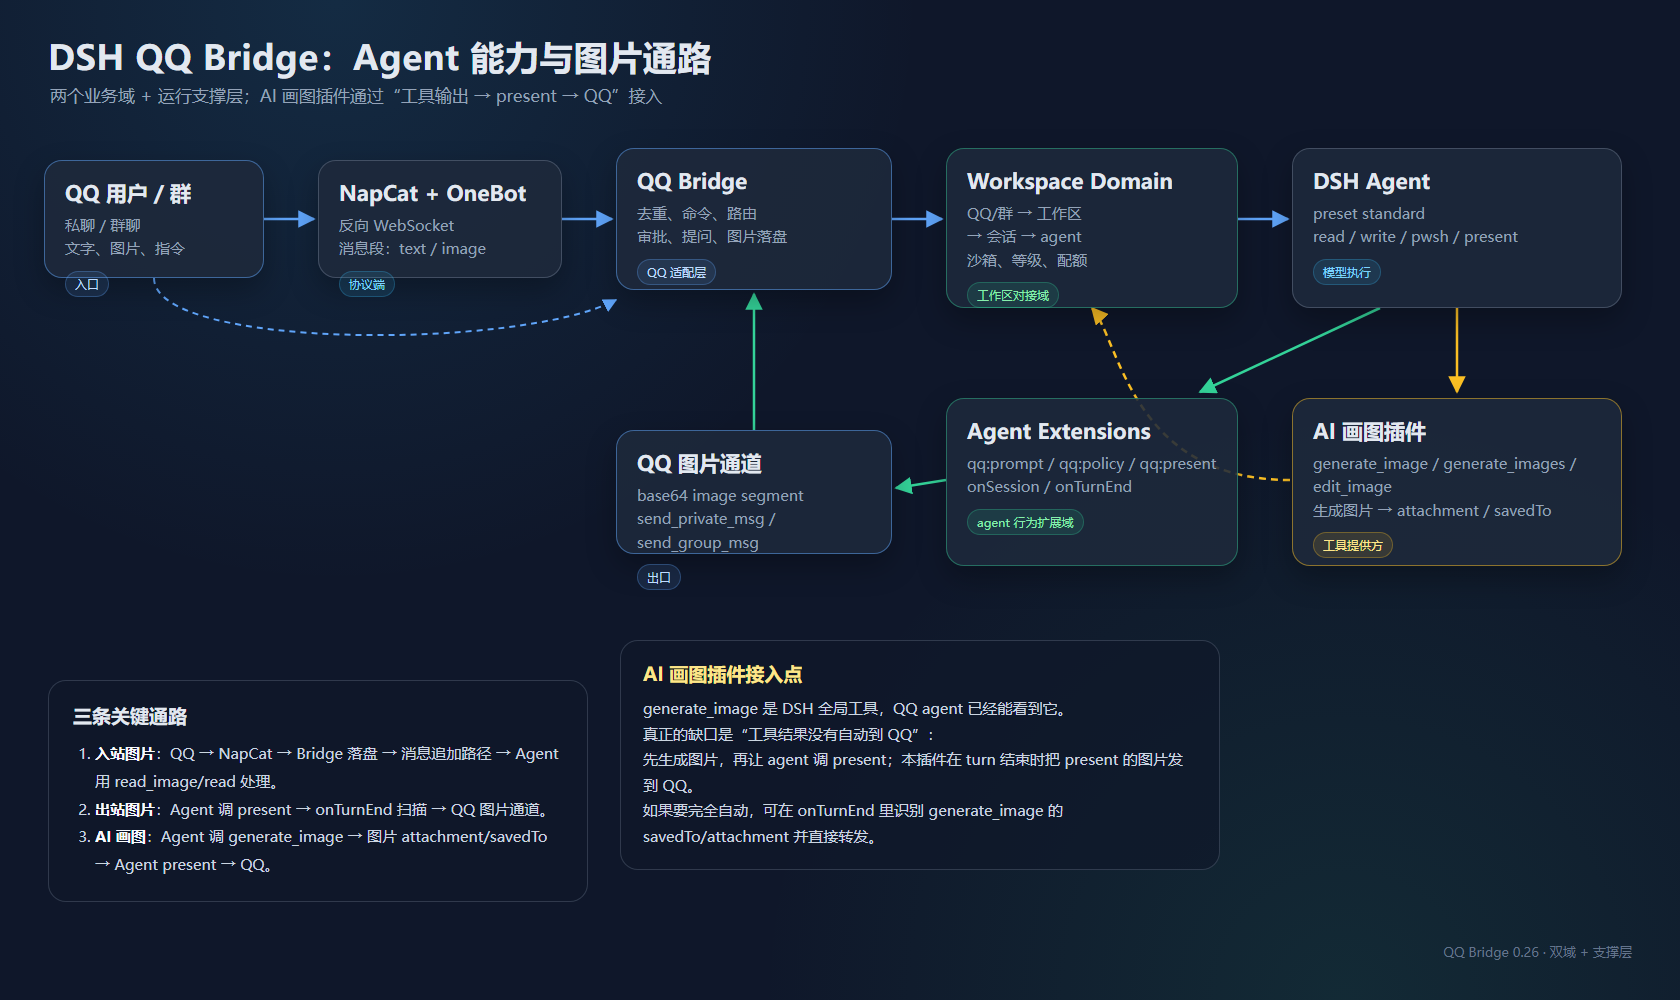
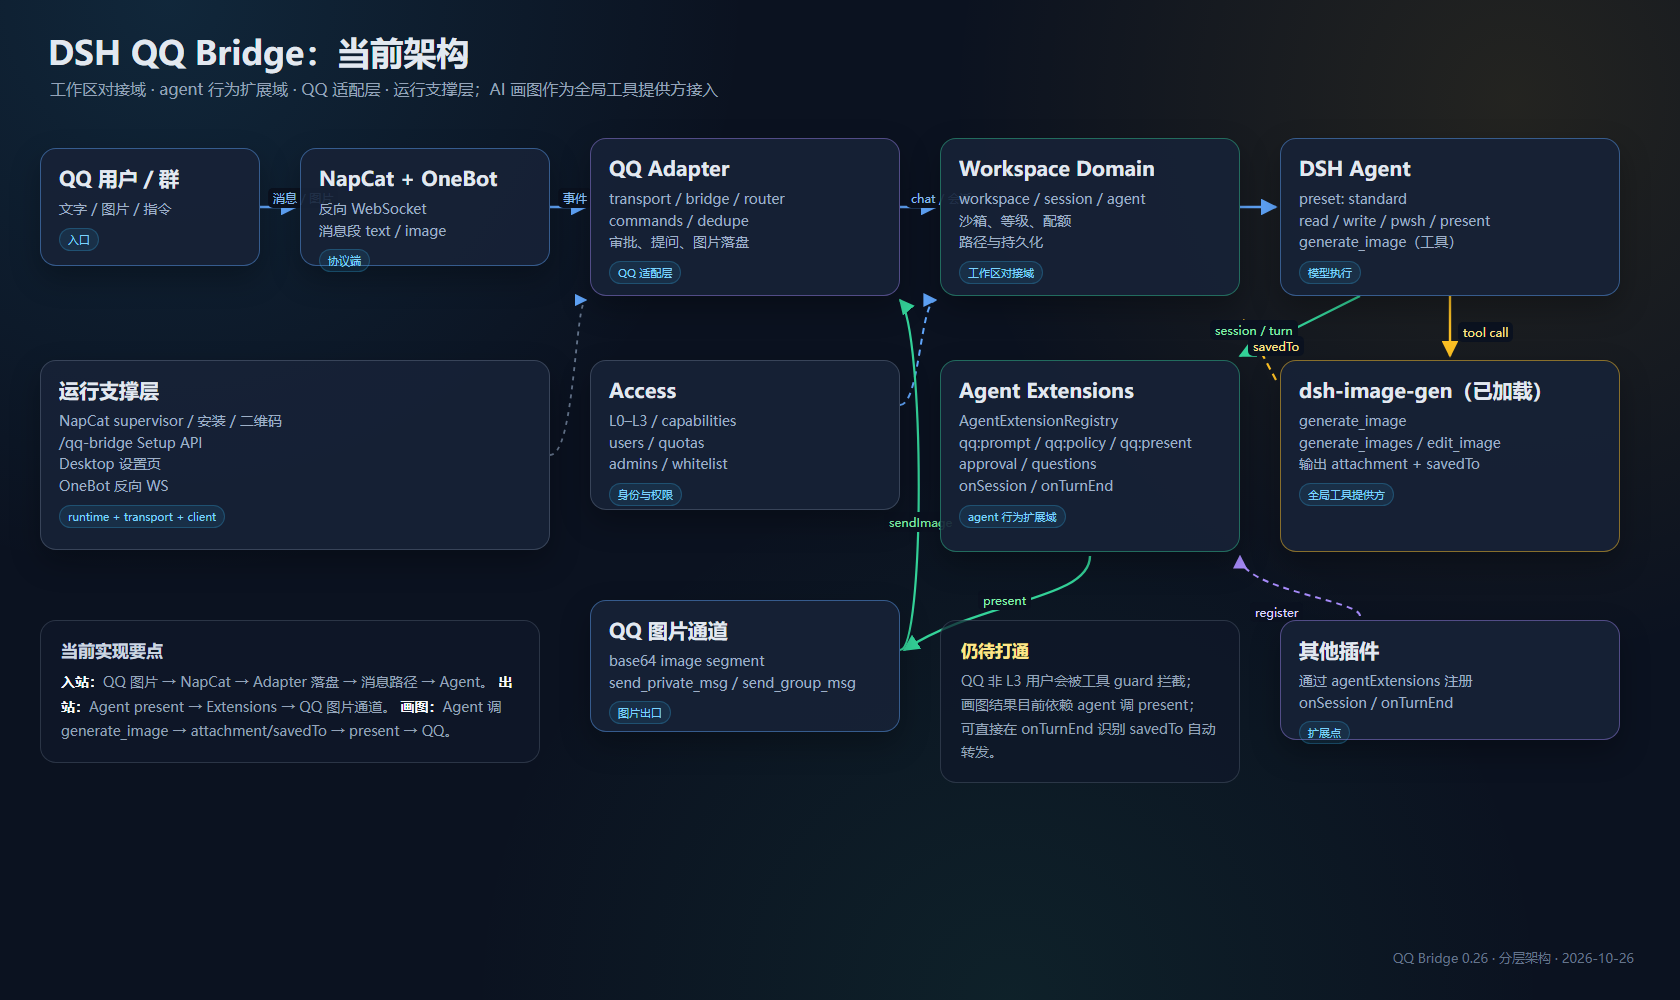
docs: redraw architecture with image-gen tool provider

diff --git a/docs/architecture.md b/docs/architecture.md
@@ -150,6 +150,27 @@ qq:present  → agent-ext/present.js
 
 它不依赖 workspace/agent-ext，只被 `index.js` 组合。
 
+## 工具提供方：dsh-image-gen
+
+AI 画图不是 QQ Bridge 的一部分，而是 DSH 的全局工具提供方：
+
+```text
+dsh-image-gen
+  → ctx.tools.register(generate_image / generate_images / edit_image)
+  → 输出 attachment + savedTo
+```
+
+QQ agent 的 `preset: standard` 能看到这些全局工具，因此生成不需要本插件注册新工具。
+当前只差输出回传：
+
+- `generate_image` 不产生 `deliverables/presented` 事件；
+- 所以需要 agent 再调用 `present(savedTo)`；
+- 或者由 `agent-ext` 的 `onTurnEnd` 识别 `generate_image` 的 tool result / `savedTo`
+  直接 `sendImage`。
+
+QQ 非 L3 用户还会被工具 guard 拦截，后续需要 `image` 能力或把
+`generate_image` 纳入白名单。
+
 ## 关键依赖规则
 
 1. `workspace/` 不 import `qq/`；
